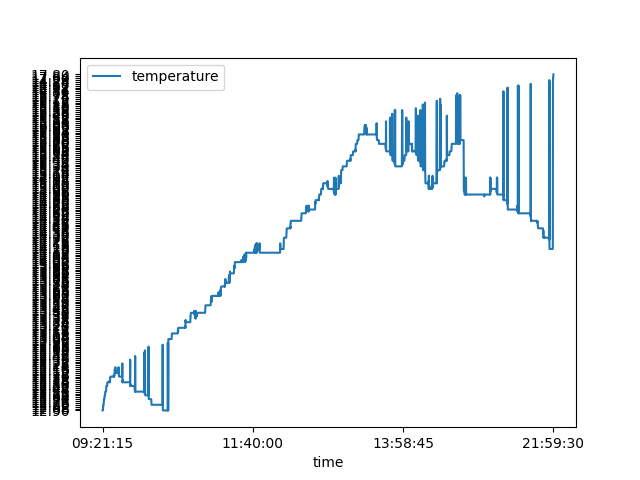
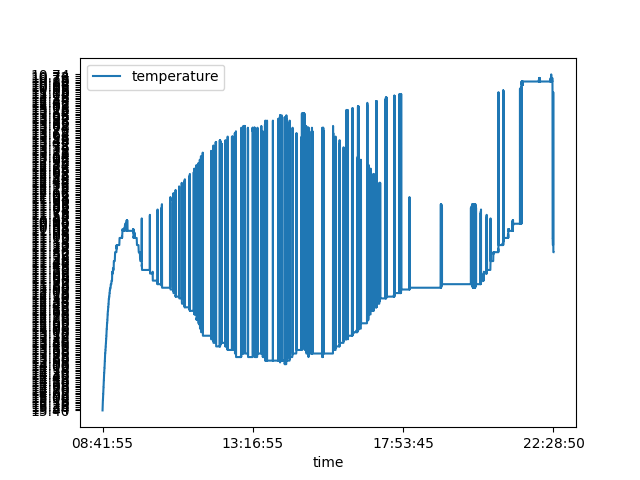
data

diff --git a/main.py b/main.py
@@ -2,7 +2,7 @@ import functions as f
 import matplotlib.pyplot as plt
 
 
-date, time, intensity, temp = f.import_data(r'data\LOG240218-0921.csv')
+date, time, intensity, temp = f.import_data(r'data\LOG240217-0841.csv')
 
 f.plot_data(time, intensity, temp)
 
